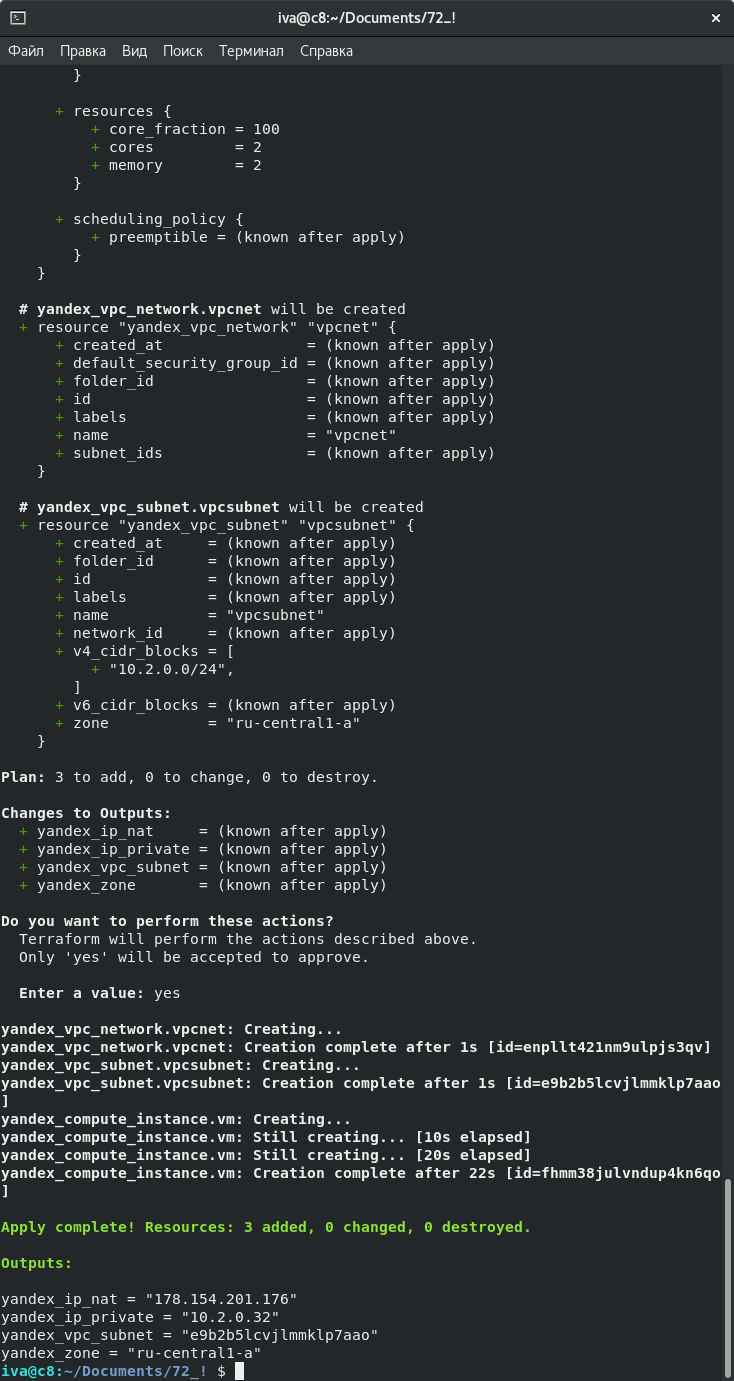
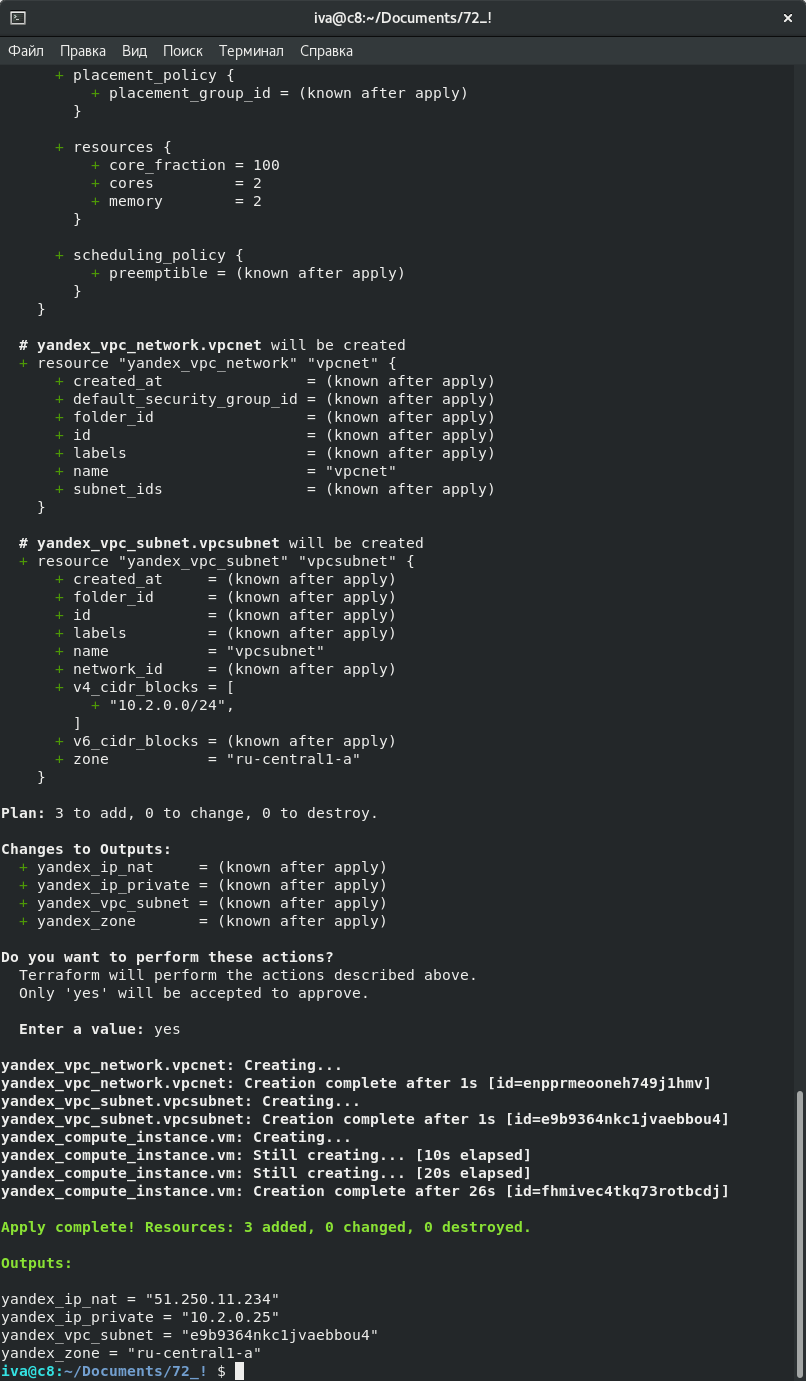
HW 7.2 fix

diff --git a/DevVirt/07-terraform-02-syntax/README.md b/DevVirt/07-terraform-02-syntax/README.md
@@ -103,7 +103,7 @@ versions.tf
 
 ```
 <details>
-     <summary>Процесс создания с использованием Terraform</summary>
+     <summary>terraform plan</summary>
     <br>
 
 ```bash
@@ -124,7 +124,7 @@ Terraform will perform the following actions:
       + id                        = (known after apply)
       + metadata                  = {
           + "ssh-keys" = <<-EOT
-                centos:ssh-rsa AAAAB3Nza<cut></cut>@c8.localdomain
+                centos:ssh-rsa AAAAB3Nza<cut></cut>
             EOT
         }
       + name                      = "netology-c8"
@@ -214,10 +214,18 @@ Changes to Outputs:
   + yandex_vpc_subnet = (known after apply)
   + yandex_zone       = (known after apply)
 
-───────────────────────────────────────────────────────────────────────────────
+───────────────────────────────────────────────────────────────────────────────────────
 
-Note: You didn't use the -out option to save this plan, so Terraform can't
-guarantee to take exactly these actions if you run "terraform apply" now.
+Note: You didn't use the -out option to save this plan, so Terraform can't guarantee to
+take exactly these actions if you run "terraform apply" now.
+
+```
+</details>
+
+<details>
+     <summary>terraform apply</summary>
+    <br>
+```bash
 iva@c8:~/Documents/72_! $ terraform apply
 
 Terraform used the selected providers to generate the following execution plan.
@@ -235,7 +243,7 @@ Terraform will perform the following actions:
       + id                        = (known after apply)
       + metadata                  = {
           + "ssh-keys" = <<-EOT
-                centos:ssh-rsa AAAAB3Nza<cut></cut.localdomain
+                centos:ssh-rsa AAAAB3Nza<cut></cut>
             EOT
         }
       + name                      = "netology-c8"
@@ -332,23 +340,22 @@ Do you want to perform these actions?
   Enter a value: yes
 
 yandex_vpc_network.vpcnet: Creating...
-yandex_vpc_network.vpcnet: Creation complete after 1s [id=enpllt421nm9ulpjs3qv]
+yandex_vpc_network.vpcnet: Creation complete after 1s [id=enpprmeooneh749j1hmv]
 yandex_vpc_subnet.vpcsubnet: Creating...
-yandex_vpc_subnet.vpcsubnet: Creation complete after 1s [id=e9b2b5lcvjlmmklp7aao]
+yandex_vpc_subnet.vpcsubnet: Creation complete after 1s [id=e9b9364nkc1jvaebbou4]
 yandex_compute_instance.vm: Creating...
 yandex_compute_instance.vm: Still creating... [10s elapsed]
 yandex_compute_instance.vm: Still creating... [20s elapsed]
-yandex_compute_instance.vm: Creation complete after 22s [id=fhmm38julvndup4kn6qo]
+yandex_compute_instance.vm: Creation complete after 26s [id=fhmivec4tkq73rotbcdj]
 
 Apply complete! Resources: 3 added, 0 changed, 0 destroyed.
 
 Outputs:
 
-yandex_ip_nat = "178.154.201.176"
-yandex_ip_private = "10.2.0.32"
-yandex_vpc_subnet = "e9b2b5lcvjlmmklp7aao"
+yandex_ip_nat = "51.250.11.234"
+yandex_ip_private = "10.2.0.25"
+yandex_vpc_subnet = "e9b9364nkc1jvaebbou4"
 yandex_zone = "ru-central1-a"
-
 ```
 </details>
 
@@ -362,40 +369,44 @@ yandex_zone = "ru-central1-a"
     [конфигурация terraform](./src/)
 
 
-![Screenshot](./img/apply.png)
-
 ![Screenshot](./img/plan.png)
 
-![Screenshot](./img/ya_vm.png)
+![Screenshot](./img/apply.png)
+
+![Screenshot](./img/yandex_vm.png)
+
+![Screenshot](./img/destroy.png)
+
 
 ---
 
 <details>
-     <summary>Процесс удаления</summary>
+     <summary>terraform destroy</summary>
     <br>
 
 ```bash
 iva@c8:~/Documents/72_! $ terraform destroy
-yandex_vpc_network.vpcnet: Refreshing state... [id=enpllt421nm9ulpjs3qv]
-yandex_vpc_subnet.vpcsubnet: Refreshing state... [id=e9b2b5lcvjlmmklp7aao]
-yandex_compute_instance.vm: Refreshing state... [id=fhmm38julvndup4kn6qo]
+yandex_vpc_network.vpcnet: Refreshing state... [id=enpprmeooneh749j1hmv]
+yandex_vpc_subnet.vpcsubnet: Refreshing state... [id=e9b9364nkc1jvaebbou4]
+yandex_compute_instance.vm: Refreshing state... [id=fhmivec4tkq73rotbcdj]
 
-Terraform used the selected providers to generate the following execution plan. Resource actions are indicated with the following symbols:
+Terraform used the selected providers to generate the following execution plan.
+Resource actions are indicated with the following symbols:
   - destroy
 
 Terraform will perform the following actions:
 
   # yandex_compute_instance.vm will be destroyed
   - resource "yandex_compute_instance" "vm" {
-      - created_at                = "2022-03-20T20:51:14Z" -> null
+      - created_at                = "2022-03-20T21:19:55Z" -> null
       - folder_id                 = "b1gm6im3mcuc36r6kn8s" -> null
       - fqdn                      = "netology_c8.local" -> null
       - hostname                  = "netology_c8" -> null
-      - id                        = "fhmm38julvndup4kn6qo" -> null
+      - id                        = "fhmivec4tkq73rotbcdj" -> null
       - labels                    = {} -> null
       - metadata                  = {
           - "ssh-keys" = <<-EOT
-                centos:ssh-rsa AAAAB3Nza<cut></cut>@c8.localdomain
+                centos:ssh-rsa AAAAB3Nz<cut></cut>
             EOT
         } -> null
       - name                      = "netology-c8" -> null
@@ -406,8 +417,8 @@ Terraform will perform the following actions:
 
       - boot_disk {
           - auto_delete = true -> null
-          - device_name = "fhmei72n4j255j94efm7" -> null
-          - disk_id     = "fhmei72n4j255j94efm7" -> null
+          - device_name = "fhmercsvg66hg2mk3u37" -> null
+          - disk_id     = "fhmercsvg66hg2mk3u37" -> null
           - mode        = "READ_WRITE" -> null
 
           - initialize_params {
@@ -420,15 +431,15 @@ Terraform will perform the following actions:
 
       - network_interface {
           - index              = 0 -> null
-          - ip_address         = "10.2.0.32" -> null
+          - ip_address         = "10.2.0.25" -> null
           - ipv4               = true -> null
           - ipv6               = false -> null
-          - mac_address        = "d0:0d:16:1a:27:ea" -> null
+          - mac_address        = "d0:0d:12:fb:98:4e" -> null
           - nat                = true -> null
-          - nat_ip_address     = "178.154.201.176" -> null
+          - nat_ip_address     = "51.250.11.234" -> null
           - nat_ip_version     = "IPV4" -> null
           - security_group_ids = [] -> null
-          - subnet_id          = "e9b2b5lcvjlmmklp7aao" -> null
+          - subnet_id          = "e9b9364nkc1jvaebbou4" -> null
         }
 
       - placement_policy {}
@@ -447,24 +458,24 @@ Terraform will perform the following actions:
 
   # yandex_vpc_network.vpcnet will be destroyed
   - resource "yandex_vpc_network" "vpcnet" {
-      - created_at = "2022-03-20T20:51:12Z" -> null
+      - created_at = "2022-03-20T21:19:53Z" -> null
       - folder_id  = "b1gm6im3mcuc36r6kn8s" -> null
-      - id         = "enpllt421nm9ulpjs3qv" -> null
+      - id         = "enpprmeooneh749j1hmv" -> null
       - labels     = {} -> null
       - name       = "vpcnet" -> null
       - subnet_ids = [
-          - "e9b2b5lcvjlmmklp7aao",
+          - "e9b9364nkc1jvaebbou4",
         ] -> null
     }
 
   # yandex_vpc_subnet.vpcsubnet will be destroyed
   - resource "yandex_vpc_subnet" "vpcsubnet" {
-      - created_at     = "2022-03-20T20:51:13Z" -> null
+      - created_at     = "2022-03-20T21:19:54Z" -> null
       - folder_id      = "b1gm6im3mcuc36r6kn8s" -> null
-      - id             = "e9b2b5lcvjlmmklp7aao" -> null
+      - id             = "e9b9364nkc1jvaebbou4" -> null
       - labels         = {} -> null
       - name           = "vpcsubnet" -> null
-      - network_id     = "enpllt421nm9ulpjs3qv" -> null
+      - network_id     = "enpprmeooneh749j1hmv" -> null
       - v4_cidr_blocks = [
           - "10.2.0.0/24",
         ] -> null
@@ -475,9 +486,9 @@ Terraform will perform the following actions:
 Plan: 0 to add, 0 to change, 3 to destroy.
 
 Changes to Outputs:
-  - yandex_ip_nat     = "178.154.201.176" -> null
-  - yandex_ip_private = "10.2.0.32" -> null
-  - yandex_vpc_subnet = "e9b2b5lcvjlmmklp7aao" -> null
+  - yandex_ip_nat     = "51.250.11.234" -> null
+  - yandex_ip_private = "10.2.0.25" -> null
+  - yandex_vpc_subnet = "e9b9364nkc1jvaebbou4" -> null
   - yandex_zone       = "ru-central1-a" -> null
 
 Do you really want to destroy all resources?
@@ -486,16 +497,14 @@ Do you really want to destroy all resources?
 
   Enter a value: yes
 
-yandex_compute_instance.vm: Destroying... [id=fhmm38julvndup4kn6qo]
-yandex_compute_instance.vm: Still destroying... [id=fhmm38julvndup4kn6qo, 10s elapsed]
-yandex_compute_instance.vm: Destruction complete after 11s
-yandex_vpc_subnet.vpcsubnet: Destroying... [id=e9b2b5lcvjlmmklp7aao]
-yandex_vpc_subnet.vpcsubnet: Destruction complete after 5s
-yandex_vpc_network.vpcnet: Destroying... [id=enpllt421nm9ulpjs3qv]
-yandex_vpc_network.vpcnet: Destruction complete after 1s
+yandex_compute_instance.vm: Destroying... [id=fhmivec4tkq73rotbcdj]
+yandex_compute_instance.vm: Still destroying... [id=fhmivec4tkq73rotbcdj, 10s elapsed]
+yandex_compute_instance.vm: Destruction complete after 12s
+yandex_vpc_subnet.vpcsubnet: Destroying... [id=e9b9364nkc1jvaebbou4]
+yandex_vpc_subnet.vpcsubnet: Destruction complete after 2s
+yandex_vpc_network.vpcnet: Destroying... [id=enpprmeooneh749j1hmv]
+yandex_vpc_network.vpcnet: Destruction complete after 0s
 
 Destroy complete! Resources: 3 destroyed.
-iva@c8:~/Documents/72_! $ 
-
 ```
 </details>
